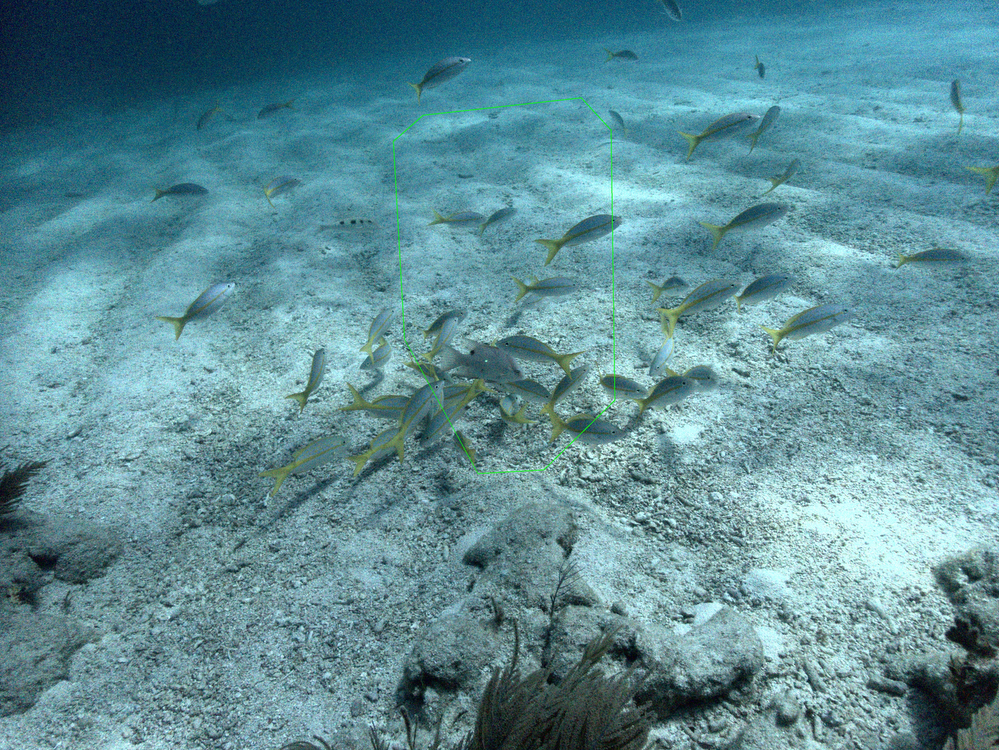
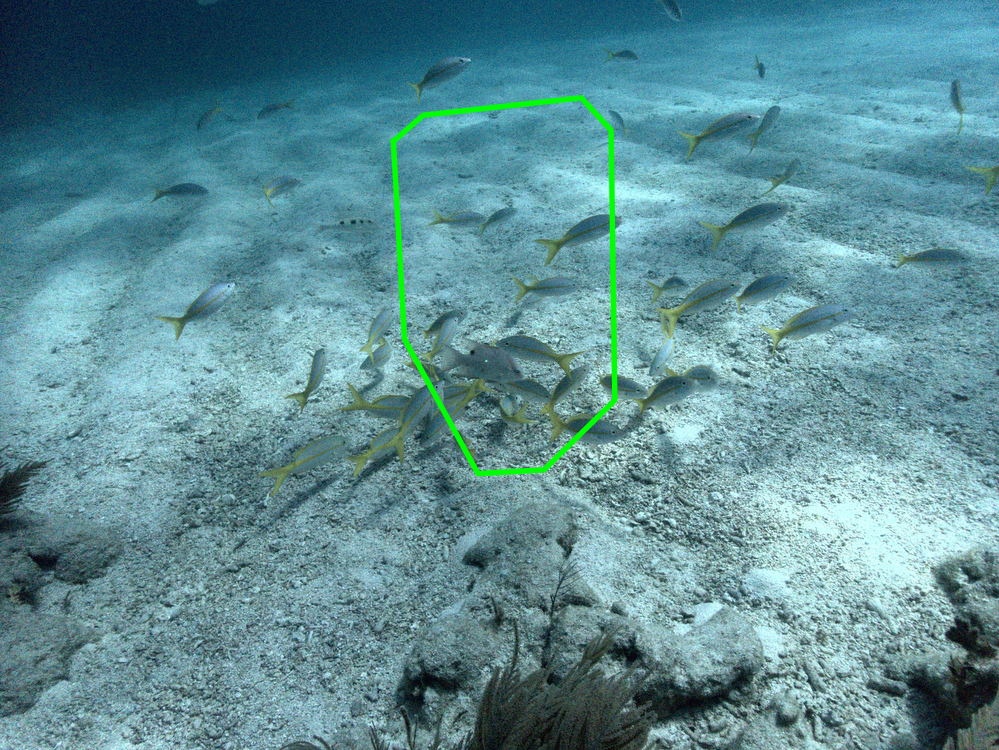
fig: labeling interface - corner-to-corner zoom lines, outline thickened for print

diff --git a/analysis/codesign/labeling_interface.py b/analysis/codesign/labeling_interface.py
@@ -14,7 +14,9 @@ under it"), and encodes a JPEG. This script calls those same functions; nothing 
 
 Writes analysis/codesign/figures/labeling_interface_full.jpg (the JPEG bytes as production makes them)
 and labeling_interface{,_inset}.{pdf,png}: the image at column width, plain and with a zoomed inset of
-the dot (the inset frame is ours, not part of what labellers see).
+the dot. In the figure only, the region outline is redrawn at 1.3 pt so it survives scaling (production
+draws 2 px on the 4014-px image), and the inset, its box and connectors are ours, not part of what
+labellers see.
 
 Run from fishsense-lite's venv (fishsense_core, the worker package and temporalio installed):
   ../fishsense-lite/.venv/bin/python analysis/codesign/labeling_interface.py
@@ -33,6 +35,7 @@ OUT = HERE / "figures"
 IMAGE_ID, CAMERA_ID = 102654, 6
 RAW = Path.home() / ".cache/cscw-fishsense2027/tail_stage" / f"{IMAGE_ID}.ORF"
 ONE = 3.33   # ACM column width, inches
+OUTLINE_PT = 1.3   # figure-only outline width; production draws 2 px
 
 
 def production_jpeg() -> bytes:
@@ -52,6 +55,11 @@ def figure(jpeg: bytes, inset: bool):
     h, w = img.shape[:2]
     fig, ax = plt.subplots(figsize=(ONE, ONE * h / w))
     ax.imshow(img, interpolation="lanczos"); ax.set_axis_off()
+    # production's outline is 2 px on a 4014-px image, too thin once scaled to a column: redraw the same
+    # polygon in the same green at a print-visible width (the caption says the outline is thickened)
+    from fishsense_shared.laser_region import LASER_REGION_POLYGON
+    poly = np.array(LASER_REGION_POLYGON + LASER_REGION_POLYGON[:1], float)
+    ax.plot(poly[:, 0], poly[:, 1], color=(0, 1, 0), linewidth=OUTLINE_PT, solid_joinstyle="round")
     if inset:
         import csv
         dot = next((float(r["laser_x"]), float(r["laser_y"])) for r in csv.DictReader(open(REPO / "e2e_measurement/tail/frames.csv"))
@@ -63,7 +71,14 @@ def figure(jpeg: bytes, inset: bool):
         ia.set_xlim(x0, x0 + 2 * half); ia.set_ylim(y0 + 2 * half, y0); ia.set_xticks([]); ia.set_yticks([])
         for sp in ia.spines.values():
             sp.set_edgecolor("white"); sp.set_linewidth(1.2)
-        ax.indicate_inset_zoom(ia, edgecolor="white", alpha=0.9, linewidth=0.8)
+        from matplotlib.patches import ConnectionPatch
+        x1, y1 = x0 + 2 * half, y0 + 2 * half
+        ax.add_patch(plt.Rectangle((x0, y0), 2 * half, 2 * half, fill=False, edgecolor="white", linewidth=0.9))
+        # corner to matching corner: the box's bottom-left to the inset's bottom-left, top-right to top-right,
+        # so the two lines frame the zoom instead of crossing it (image y grows downward)
+        for corner in ((x0, y1), (x1, y0)):
+            fig.add_artist(ConnectionPatch(xyA=corner, coordsA=ax.transData, xyB=corner, coordsB=ia.transData,
+                                           color="white", linewidth=0.8, alpha=0.9))
     fig.subplots_adjust(0, 0, 1, 1)
     name = "labeling_interface" + ("_inset" if inset else "")
     fig.savefig(OUT / f"{name}.pdf", metadata={"CreationDate": None, "ModDate": None}, dpi=300)
